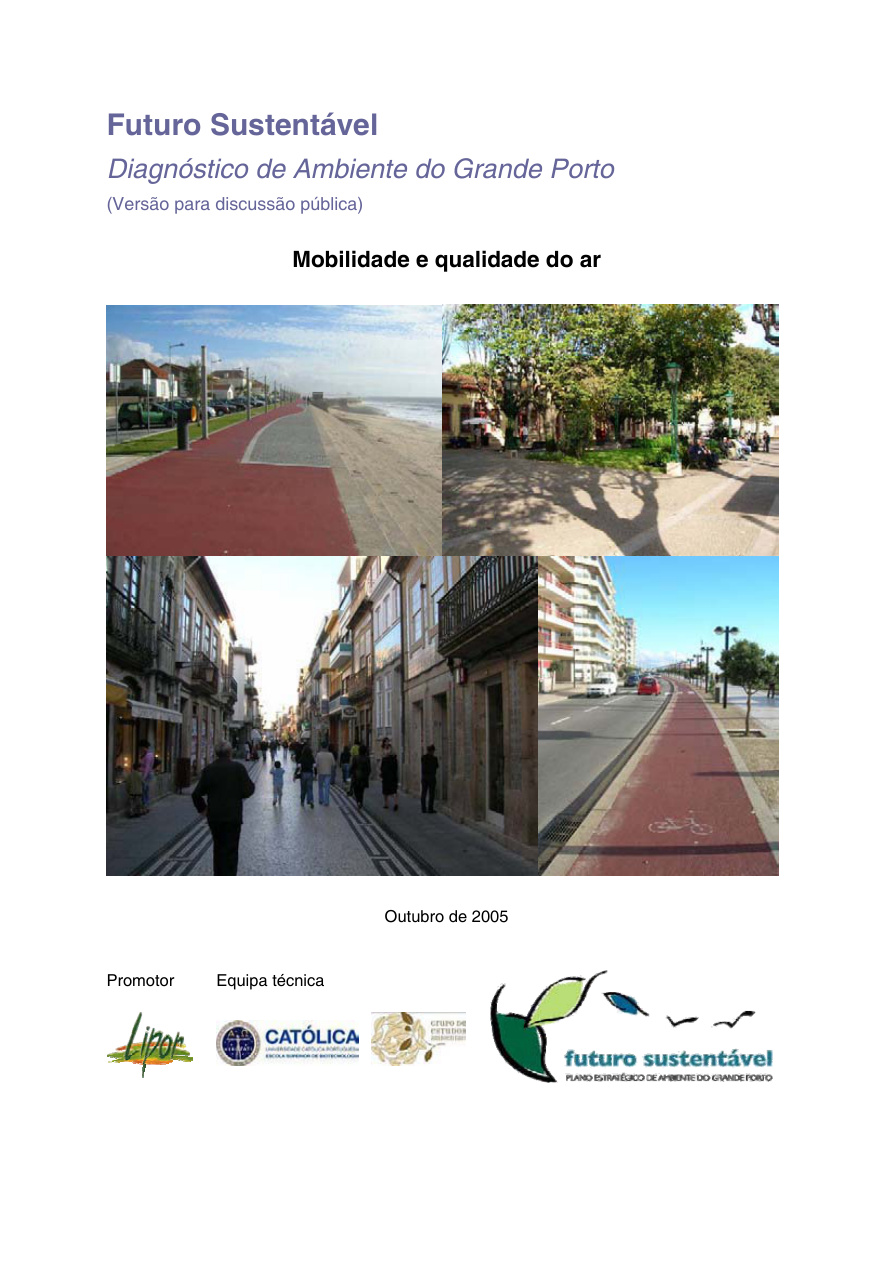
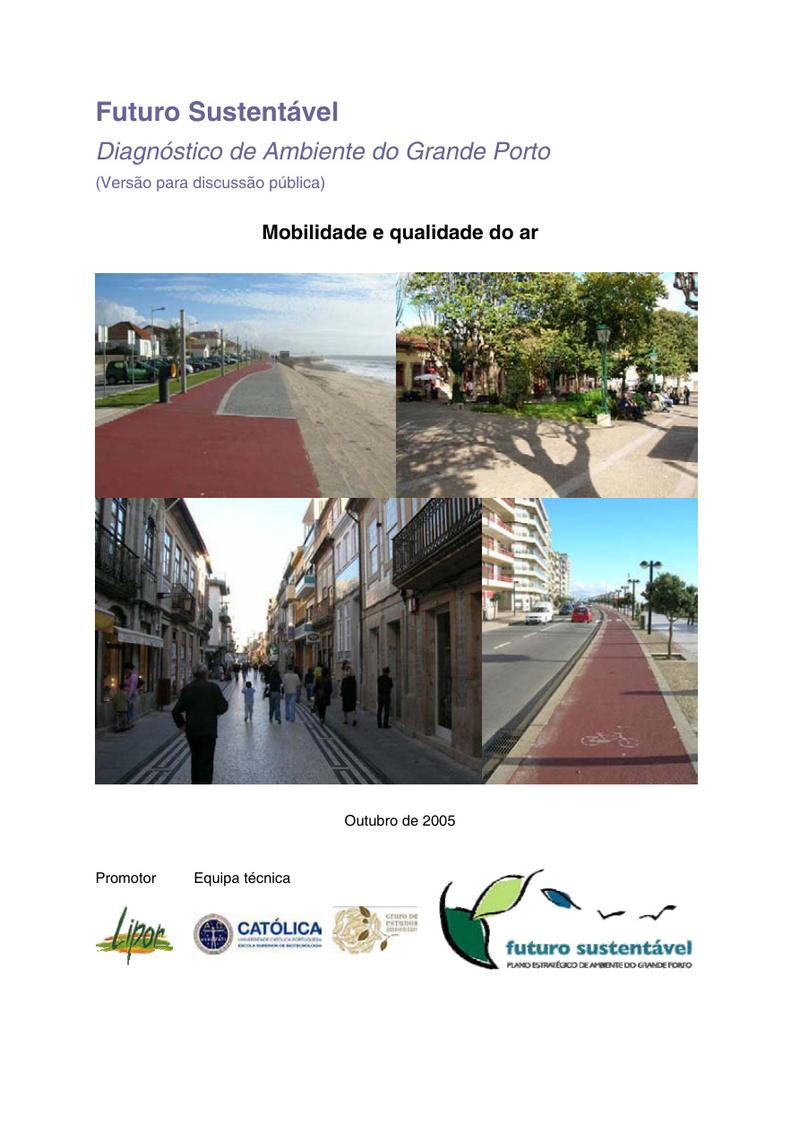
Optimizar imagens, página 404, tagline e correcções
- Imagens PNG convertidas para JPEG (10MB → 2MB)
- Covers optimizadas (50-70% mais leves)
- Página 404 custom
- Tagline actualizada

diff --git a/index.html b/index.html
@@ -66,7 +66,7 @@
       <div class="hero-text">
         <h1>Nuno Quental</h1>
         <blockquote class="hero-quote">&laquo;Uma gestão urbanística correcta faz-se com a preservação, antes de mais, dos espaços verdes existentes.&raquo;</blockquote>
-        <p class="hero-sub">Engenheiro do ambiente. Investigador em sustentabilidade urbana.</p>
+        <p class="hero-sub">Sustentabilidade urbana, energia e território.</p>
         <div class="hero-ctas">
           <a href="escritos.html" class="cta">Publicações &rarr;</a>
           <a href="https://coolio1.github.io/porto_areas_verdes_mudanca/" target="_blank" class="cta cta-secondary">Mapeando o Verde do Porto &rarr;</a>
@@ -84,11 +84,11 @@
       </div>
       <div class="projeto-imagens">
         <figure>
-          <img src="covers/porto_deficit.png" alt="Défice de espaços verdes no Porto" loading="lazy">
+          <img src="covers/porto_deficit.jpg" alt="Défice de espaços verdes no Porto" loading="lazy">
           <figcaption>Défice de espaços verdes</figcaption>
         </figure>
         <figure>
-          <img src="covers/porto_2024.png" alt="Porto em 2024" loading="lazy">
+          <img src="covers/porto_2024.jpg" alt="Porto em 2024" loading="lazy">
           <figcaption>2024</figcaption>
         </figure>
       </div>

diff --git a/404.html b/404.html
@@ -1,0 +1,32 @@
+<!DOCTYPE html>
+<html lang="pt">
+<head>
+  <meta charset="UTF-8">
+  <meta name="viewport" content="width=device-width, initial-scale=1.0">
+  <title>Página não encontrada — Nuno Quental</title>
+  <link rel="stylesheet" href="/style.css">
+  <link rel="icon" type="image/png" href="/favicon.png">
+</head>
+<body>
+  <header>
+    <nav>
+      <a href="/" class="nav-name">NQ</a>
+      <div class="nav-links">
+        <a href="/">Início</a>
+        <a href="/escritos.html">Publicações</a>
+        <a href="https://coolio1.github.io/porto_areas_verdes_mudanca/" target="_blank">Porto Verde</a>
+      </div>
+    </nav>
+  </header>
+  <main>
+    <div class="page-header" style="padding:6rem 0;text-align:center;">
+      <h1>404</h1>
+      <p class="intro">Página não encontrada.</p>
+      <a href="/" class="cta" style="margin-top:2rem;">Voltar ao início &rarr;</a>
+    </div>
+  </main>
+  <footer>
+    <p><a href="https://www.linkedin.com/in/nquental" target="_blank">Nuno Quental</a> &copy; 2026</p>
+  </footer>
+</body>
+</html>
